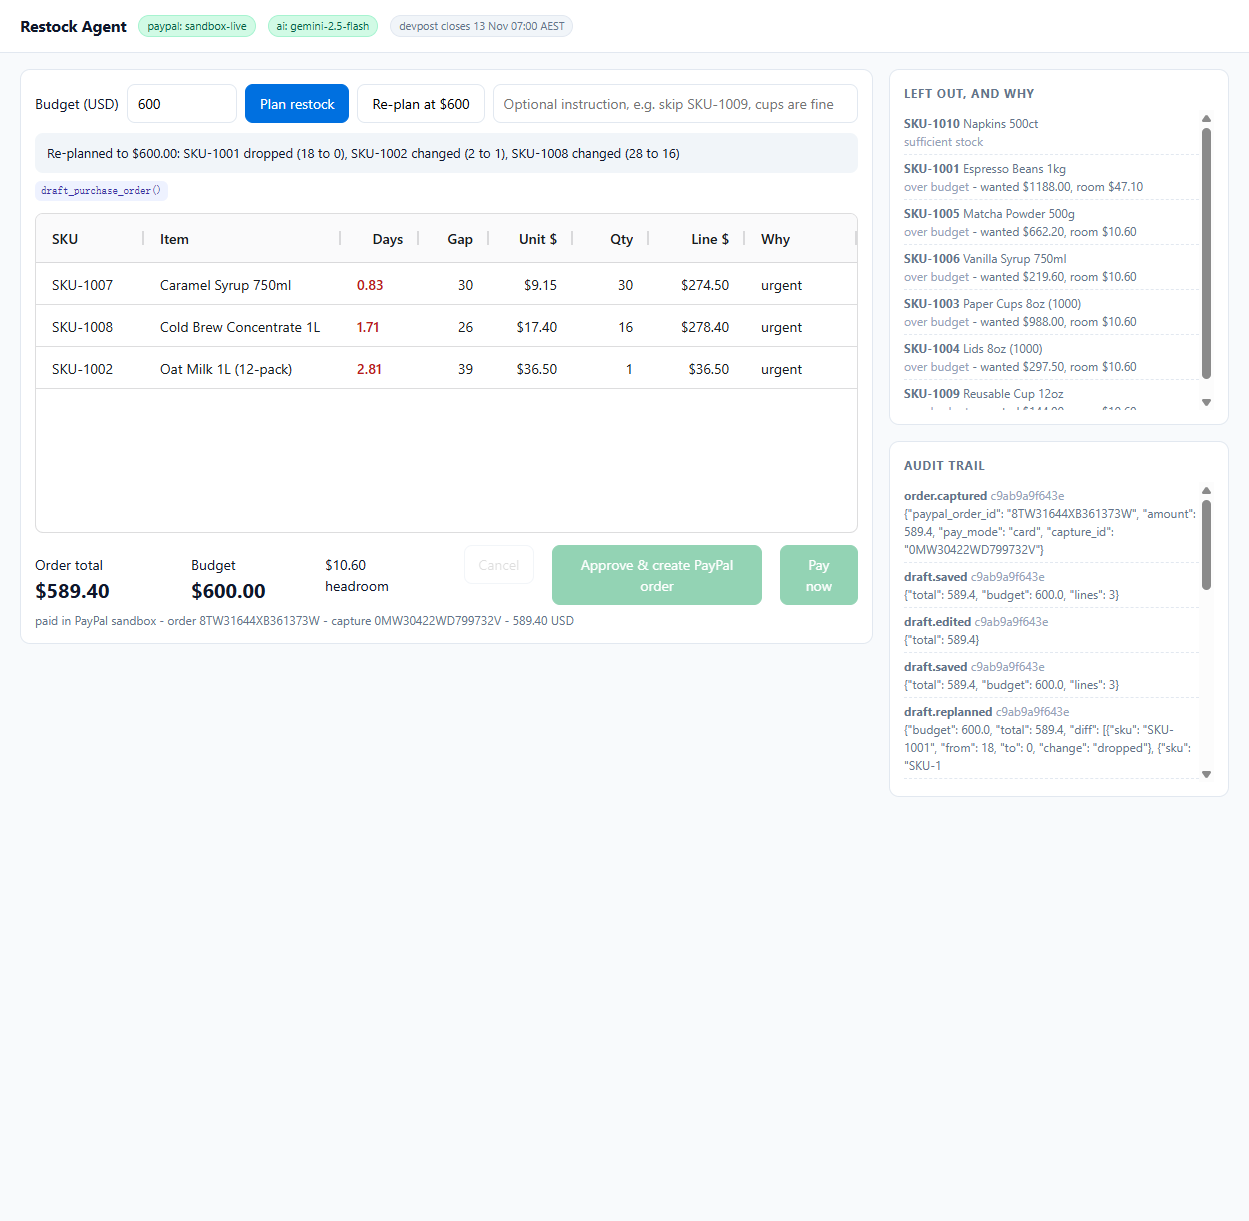
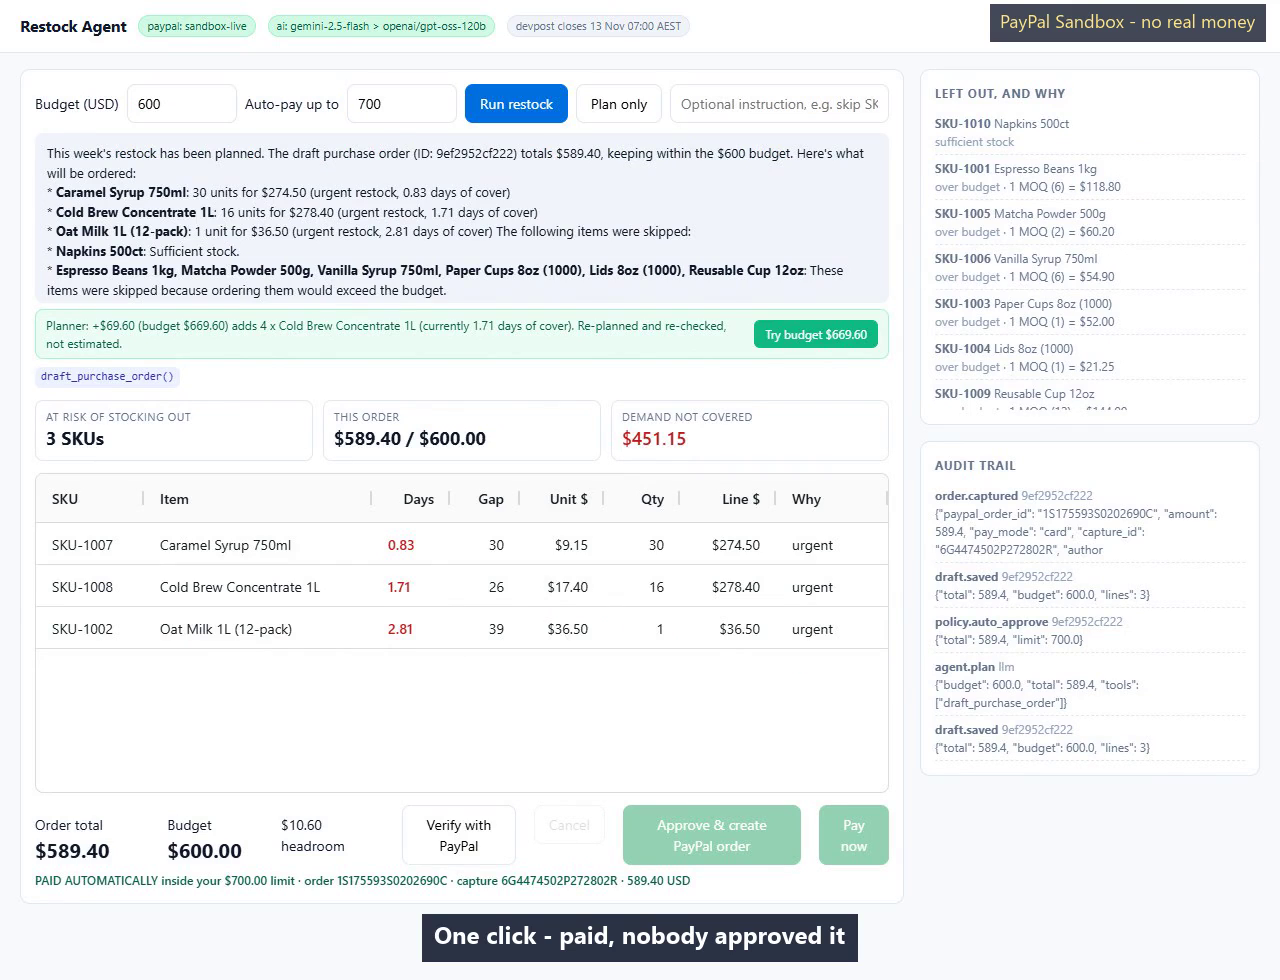
docs: use frames from the submitted video as the README screenshots
The README now shows exactly what a judge sees in the video: the settled autonomous payment and
the PayPal verification, both pulled from the final cut instead of an older session.

diff --git a/RESEARCH.md b/RESEARCH.md
@@ -1,0 +1,137 @@
+# PayPal AI Hackathon 研究（2026-11-06）
+
+来源：<https://paypalaihackathon.devpost.com/> + `/rules` + `/resources`（2026-11-06 抓取）
+外部裁决：`gpt-6.1-sol` / effort=high，产出 `C:\Users\Chan\Documents\Hermes\dual-model\runs\20261106-212113-ask-codex.json`
+
+## 1. 一页事实
+
+| 项 | 值 |
+|---|---|
+| 名称 | PayPal AI Hackathon: Build what's next with PayPal and AI（Devpost challenge 31302） |
+| 提交窗口 | 2026-10-01 09:15 PT → **2026-11-12 12:00 PT = 悉尼 2026-11-13 07:00 AEDT** |
+| 剩余 | 约 6 天 9 小时（从 2026-11-06 21:19 AEDT 计） |
+| 评审 | 12-01 → 12-15；12-21 左右公布 |
+| 规模 | Devpost 显示 29,617 名注册者（实际提交数远小于此） |
+| 资格 | 全球开放；排除巴西、魁北克、俄、克里米亚、古巴、伊朗、朝鲜及美国制裁地 |
+| 赛道 | **无赛道、无命题**。唯一硬要求：项目必须同时"meaningfully"用到 PayPal 与 AI |
+| 总奖池 | $67,500 现金 + Render credits |
+
+### 提交物清单（缺一项即失格）
+
+1. 项目本体（用 PayPal developer platform **sandbox**）
+2. 文字描述（功能与用法）
+3. **可运行 demo**：repo 里完整 setup/run 说明 **或** hosted demo URL。静态 mockup / 设计稿 / 非功能 demo 明确不算
+4. 工具说明：用了哪些模型/AI 服务、怎么用的
+5. **公开开源 repo**（GitHub / GitLab / Bitbucket），含全部源码与说明，带 license 且 About 区可见
+6. **<3 分钟** YouTube 公开视频，须拍到真实运行画面，不得含未授权商标/音乐
+7. 材料英文（非英文需提供英文翻译）
+
+### 评分
+
+- **Stage 1**：pass/fail 基线——是否真用了 PayPal + AI、是否贴题。不过线直接淘汰。
+- **Stage 2**：五项**等权**——Technological Implementation / Design / Potential Impact / Innovation-Idea / Presentation。
+- **平票规则**：按上述顺序逐项比 → Technological Implementation 实际是最高权重项。
+- 注意 Design 的定义是"完整连贯的产品体验，不是技术 PoC"；Presentation 明确要求视频端到端跑通。
+
+### 奖金结构
+
+| 类别 | 奖项 | 金额 |
+|---|---|---|
+| Grand | 1st / 2nd / 3rd | 12k / 8k / 5k |
+| Honorable Mention（各 1 名） | Most Creative、Most Impactful、Best Demo Delivery、Best Use of PayPal + AI、**Best Use of Agentic Commerce** | 各 5k |
+| Sponsor | AG Grid 1st/2nd/3rd | 5k / 2k / 1k×3 |
+| Sponsor | APIMatic、Bryntum | 各 1k×3 |
+| Sponsor | Channel3 | 1.5k |
+| Sponsor | Render | 1000/750/500 credits |
+
+**叠加规则**：一个项目最多 1 Grand + 1 Sponsor，或 1 Honorable + 1 Sponsor。→ 在主题奖之上再叠一个 sponsor 奖是纯增量，最高可到 $10k。
+
+## 2. 技术底座（已核实）
+
+| 组件 | 实际情况 |
+|---|---|
+| PayPal sandbox | `api-m.sandbox.paypal.com`，OAuth2 client_credentials 换 token，有效期 3–8h，免费 |
+| Orders v2 | create → approve link → capture，纯 REST，Python `requests` 几十行可跑通 |
+| 其他能力 | Invoices / Subscriptions / Payouts / Disputes / Webhooks / Catalog / Reporting 全在 sandbox 可用 |
+| PayPal MCP server | `https://mcp.sandbox.paypal.com/sse`（SSE），SSE 暴露 Orders & Payments、Invoices、Subscriptions、Disputes、Catalog、Shipment、Reporting 七组工具 |
+| PayPal AI Toolkit | `github.com/paypal/AI-Toolkit`（Apache-2.0），给 Claude Code / Codex / Cursor 装 skill + MCP 的插件；*自己写的应用*不需要它，但可用来加速开发时查 API |
+| PayPal Agent Toolkit | `github.com/paypal/agent-toolkit`，把 PayPal API 包成 function-calling 工具（`create_order`/`pay_order`/`create_invoice`…）；README 明确写"support for TypeScript"，**Python 侧不可靠** |
+| AG Grid | Community 版 MIT，免费可进公开 repo（sponsor 奖要求"use any AG Grid tools"） |
+
+结论：**Python 项目直接打 REST + 自写 3–4 个工具函数，不要依赖 agent-toolkit 的 Python 包**。自写工具层反而在 Technological Implementation 上更好讲故事。
+
+## 3. 外部模型裁决（sol/high，81.95s，窗口第 1/8 次）
+
+原话要点：
+
+- 选 **E「CSV 补货采购 Agent」**，工时盒 30 小时，主攻 **Best Use of Agentic Commerce**，兼争 **AG Grid**。
+- 期望值排序：**E > B（只做开票）> C > A（双 agent 谈判）> D（订阅/现金流）**。理由：B 原版接口过多、C 同质化、A 谈判难证明价值、D 缺历史数据。
+- 单商户闭环：库存 CSV + 样例目录 → AI 调选货工具、按新预算重规划 → 后端验价与限额 → 买方批准 → sandbox 扣款回写账本。
+- 五项判据的对位：可审计闭环=技术分；重规划=创新分；补货减负=影响分；单屏表格=设计分；真实三幕演示=展示分。
+- 必砍三件事：① 双 agent 谈判、多商户分账；② Payouts / Disputes / 订阅，只打磨 Orders 闭环；③ sponsor 工具接入限 2 小时。
+- 截止换算：悉尼 11-13 07:00 前交齐。
+
+## 4. 落地方案：Restock Agent（单商户闭环）
+
+**一句话**：把"我该补什么货、批不批、付了没"压进一次 AI 驱动的审阅 + 一次真实 sandbox 扣款。
+
+### 三段流程（视频就按这三幕拍）
+
+1. **计划**：上传 `inventory.csv`（SKU、当前库存、日均销量、安全库存）+ `catalog.json`（PayPal Catalog 里的商品与价格）。Agent 调工具算缺口 → 生成采购草案（SKU、数量、单价、总额）。
+2. **重规划**：用户改预算（如 $500 → $300）或剔除某 SKU，Agent 必须重新调工具、重算，产出新草案并解释取舍（砍了谁、为什么）。**这一步是"agent 真的在动"的证据**。
+3. **执行**：单屏 AG Grid 审阅表（可编辑数量、实时重算）→ 批准 → 后端先验价再限额 → 调 PayPal Orders v2 `create` + `capture` → 写回 `ledger.csv` + 库存扣减。
+
+### 必须跑出来的四个边界（也是视频里的加分镜头）
+
+- 超预算：草案总额 > 预算 → 硬拦截，不允许 capture
+- 价格漂移：catalog 价格与草案不一致 → 拒绝并触发重规划
+- 重复提交：同一 `idempotency_key` 二次点击 → 不重复扣款
+- 取消：批准前取消 → 无订单产生
+
+### 技术栈（按单人 30 小时定）
+
+| 层 | 选型 | 理由 |
+|---|---|---|
+| 后端 | Python + FastAPI | 熟悉，REST 直连 PayPal |
+| 工具层 | 自写 4 个函数：`read_inventory`、`quote_catalog`、`draft_po`、`pay_order` | 不依赖不稳定的 Python agent 包；工具边界清晰好讲 |
+| LLM | 任选（Gemini/Groq/GPT 免费档），function calling | 零预算；模型写进"Tools"清单 |
+| 前端 | 单页 HTML + AG Grid Community（CDN 引入） | 2 小时上限，不搭框架 |
+| 账本 | CSV/SQLite | 可审计、视频里好展示 |
+
+### 判据对位表
+
+| 判据 | 靠什么拿分 |
+|---|---|
+| Technological Implementation | 真实 Orders v2 create+capture、四条边界、幂等键、账本一致 |
+| Design | 单屏"草案 → 审阅 → 支付 → 回执"一条线，不跳页 |
+| Potential Impact | 小商户补货：原本手工 Excel 对账 + 手动下单，压到一次批准 |
+| Innovation | 预算约束下的**重规划**（不是"AI 建议"，是 AI 重算并重提交） |
+| Presentation | 三幕演示 2:40，全程真实点击与真实 sandbox 回执 |
+
+## 5. 时间盒（悉尼日期，共 30h）
+
+| 日期 | 工时 | 目标 | 冻结项 |
+|---|---|---|---|
+| 11-06 夜 | 4h | sandbox 换 token、跑通 create+capture、LLM 免费档 tool calling | 商户单一、币种单一（USD） |
+| 11-07 | 6h | 接 CSV + catalog + 工具层；验证"改预算会改变采购单" | 工具签名定死 |
+| 11-08 | 6h | 批准 → 扣款 → 账本回写；四条边界测试 | 支付路径不再动 |
+| 11-09 | 5h | AG Grid 单屏审阅；当天冻结功能 | **功能冻结线** |
+| 11-10 | 5h | 英文 README + 工具清单 + LICENSE + About 检查；干净环境复现；录 2:40 视频 | 视频素材定稿 |
+| 11-11 | 4h | 上传 YouTube、提交 Devpost、逐条核验链接；余量只修阻断问题 | 提交完成（不压线） |
+
+## 6. 风险清单
+
+| 风险 | 处理 |
+|---|---|
+| AG Grid Community 是否算"AG Grid tools"（sponsor 奖资格） | 未在规则中逐字确认；按"any AG Grid tools"字面成立，但不要把它当主目标，只当增量 |
+| Python agent-toolkit 不可靠 | 已核实 README 只承诺 TypeScript → 走 REST |
+| 视频超 3 分钟 | 2:40 硬上限，脚本先写后录 |
+| sandbox token 3–8h 过期 | 代码里做 token 刷新，演示前重新签发 |
+| 规则要求"旧项目须赛期内显著更新" | 本项目从零起，无此风险 |
+| 29,617 注册者 → 主题奖竞争激烈 | 靠 Stage 2 五项齐全 + sponsor 叠加，不赌 Grand |
+
+## 7. 需要用户拍板（平台动作，不在我职权内）
+
+1. 是否注册 Devpost 账号并 Join Hackathon（提交动作必须本人）
+2. PayPal Developer 账号的 sandbox Client ID / Secret 由本人创建后放入本地 `.env`（不写进 repo、不写进记忆）
+3. 是否接受"Agentic Commerce 主题 + AG Grid 增量"这条路线，还是先看别的方向对比

diff --git a/DECISIONS.md b/DECISIONS.md
@@ -1,0 +1,62 @@
+# DECISIONS
+
+## 2026-11-06 · 参赛路线
+
+- **采纳外部裁决**（gpt-6.1-sol / high，runs/20261106-212113-ask-codex.json）：方向定为 **E「CSV 补货采购 Agent」**，主攻 Best Use of Agentic Commerce，AG Grid 作增量 sponsor 奖，工时盒 30h。
+- **被推翻的**：我原列的 A（双 agent 谈判）、B（自由职业回款全链路）、C（收据分账）、D（订阅现金流）。理由分别为：A 的价值难以在 3 分钟视频里自证；B 接口面过大、30h 装不下；C 同质化严重；D 需要历史数据而沙箱没有。
+- **技术口径**：Python + FastAPI 直连 PayPal REST（Orders v2），工具层自写，不用 agent-toolkit 的 Python 包（README 只承诺 TypeScript，已核实）。
+- **未验证假设**：AG Grid Community（MIT）是否满足 sponsor 奖"use any AG Grid tools"——按字面成立，但不作为主目标。
+
+## 待用户拍板
+
+1. 注册 Devpost + Join Hackathon（平台动作）
+2. 创建 PayPal sandbox 应用并把 Client ID / Secret 放本地 `.env`
+3. 路线确认或改向
+
+## 2026-11-06 · 11-06 时间盒（4h）执行记录
+
+用户已登录 Devpost（0 个项目、6 天倒计时、To-dos 三项）。已交付一个 mock 模式下全通的切片：
+
+- `app/planner.py` 纯函数分配器：gap 公式 + 按 days-of-cover 排序 + 预算硬上限 + 部分填充（按 MOQ 向下取整）+ 丢弃原因
+- `app/service.py` 四道守卫：超预算、价格漂移、幂等、非法状态迁移；`app/paypal_client.py` 真实 Orders v2 + token 刷新 + MockPayPal 兜底
+- `app/agent.py` 工具调用循环（OpenAI 兼容），无 LLM key 时降级为确定性 planner，演示不会因网络挂掉
+- `app/main.py` FastAPI + `static/index.html` 单屏 AG Grid（可编辑数量、实时总额、headroom）
+- `tests/test_boundaries.py` 10 个用例全绿（python -m unittest，无需凭据）
+- 实测：budget 1200 → 4 行 $1191.10；砍到 600 → $589.40，diff = SKU-1001 dropped / SKU-1008 28→16 / SKU-1002 2→1；qty 改成 9999 → 超预算 $91,207.45 且审批按钮禁用；approve→capture 拿到 CAP-AEF588FF6B
+- 文档：英文 README（含 Tools 清单与 2:40 演示脚本）、MIT LICENSE、`.env.example`、`scripts/smoke.py`
+
+下一步（等凭据）：`PAYPAL_CLIENT_ID/SECRET` 进 `.env` → `python -m scripts.smoke --token-check` → 真 sandbox 下单，把 mock 徽章换成 sandbox-live 并重录截图。LLM key 接入后同一循环切到真模型。
+
+## 2026-11-06 · 真 sandbox 接通（凭据到位后）
+
+- 安全修正：用户把凭据填进了 `.env.example`（准备进公开 repo 的模板）。已复制到 `.env`、把模板还原成空值。当前无 git repo，未外泄。
+- `--token-check` 通过（真 sandbox OAuth2）。
+- 首次真扣款被拒：`422 ORDER_NOT_APPROVED` —— Orders v2 要求付款方先批准。这是规则，不是 bug。
+- 决策：加 `PAYPAL_PAYMENT_MODE`，两条路都实现。
+  - `card`（默认）：create 时带 `payment_source.card`（sandbox 测试卡），PayPal 在 create 内直接结算，返回 `COMPLETED` + capture id；不要再调 capture，否则 `ORDER_ALREADY_CAPTURED`。
+  - `approval`：不带 payment_source，返回 `checkoutnow?token=…` 批准链接，人批完再 `POST /api/capture`。
+- 实测：UI 点 Approve 一次即完成真实 sandbox 扣款 —— order `6X147398UT547322A` / capture `1546868974354614C` / USD 1191.10 / `2026-11-06T10:43:17Z`；用 `GET /v2/checkout/orders/{id}` 回查为 `COMPLETED`。截图 `docs/screenshot-live.png`。
+- 测试从 10 条扩到 12 条（拆出 card 一次性结算与 approval 两步流），全绿。
+
+## 2026-11-06 · LLM 接入 + 一个必须堵的洞
+
+- Gemini 2.5 Flash（OpenAI 兼容端点）接通，`/api/health` 返回 `llm_mode: llm`。
+- **发现真缺陷**：首次真跑模型时，`draft_purchase_order` 的 `budget_usd` 是模型自由参数，模型自己填了 1,000,000，直接生成 $5,684.50 的订单 —— 预算从模型侧泄漏了。
+- 修法（三重）：
+  1. 从工具 schema 里删掉 `budget_usd`；预算只存在于服务端 session ctx。
+  2. 若模型仍然传 `budget_usd`，记 `agent.budget_override_refused` 并忽略。
+  3. `assert draft["budget"] == ctx["budget"]` 兜底。
+- 同时把 `pay_purchase_order` 从模型可见的 schema 里撤掉，dispatcher 直接 `PermissionError`：agent 只能提方案，不能付钱。
+- 降级诚实化：provider 不通时 `engine` 返回 `llm-fallback`（trace 首项 `fallback`），不再假装是模型的输出；实测坏 key → `llm-fallback` 且预算 300/295.75 正确。
+- 测试 12 → 14 条（新增"模型不能自己定预算""支付工具不对模型开放"）。
+- 第三次真扣款验证：order `8TW31644XB361373W` / capture `0MW30422WD799732V` / USD 589.40。
+
+## 2026-11-06 · 事故与修复记录（编码）
+
+- PowerShell 5.1 的 `Set-Content` 默认编码把 `static/index.html` 的 UTF-8 字符写坏（em-dash 变 U+FFFD），文件流变成非法 UTF-8。
+- 相对路径混用（`cd` 对 PowerShell cmdlet 生效，但对 `[System.IO.File]` 用的是进程 CWD）导致一度在项目根写出 0 字节 `index.html`。
+- 处理：删除坏文件、用 written-as-UTF8 的新文件替换、`node --check` 校验内嵌 JS（抓到一处多余的 `)` 造成整页白屏），现在零 console 错误。
+- 教训：改前端文件只用 write/edit 工具，不用 shell 重定向。
+
+
+
